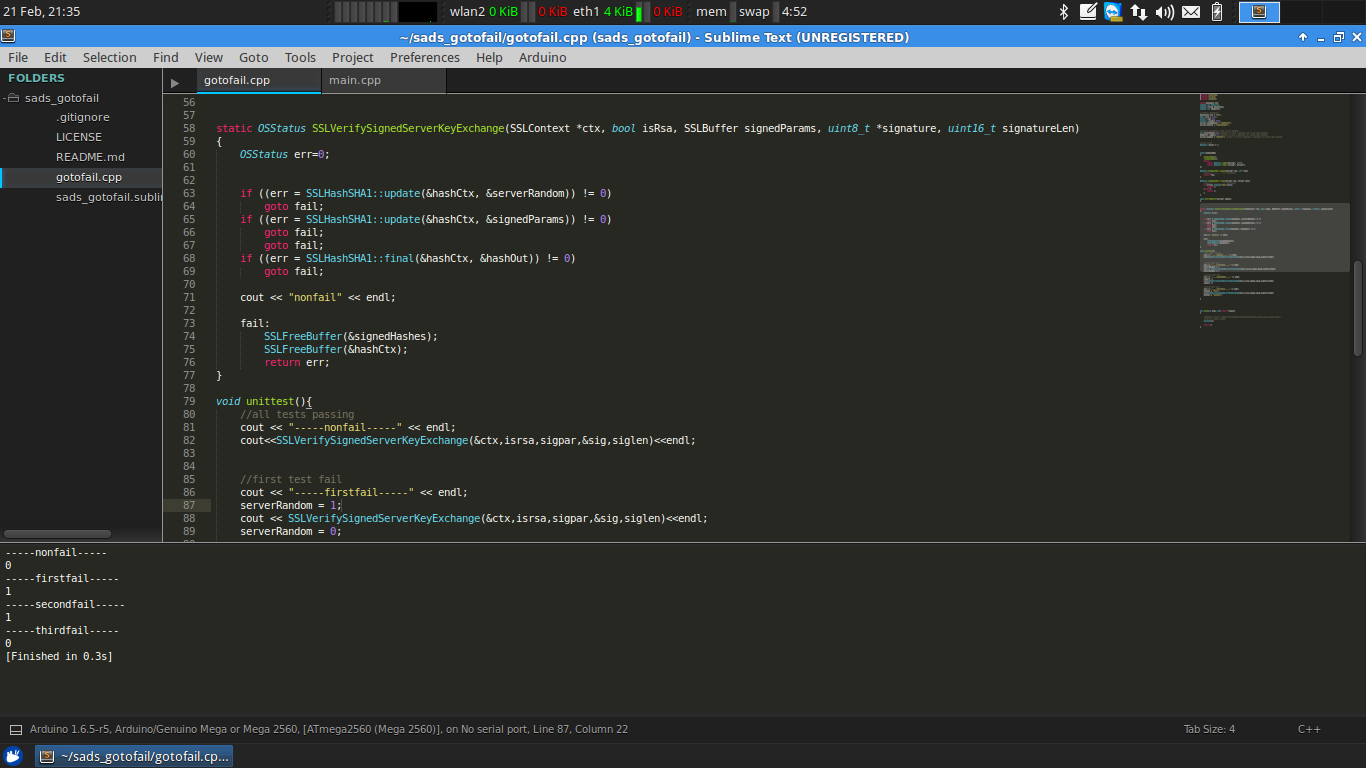
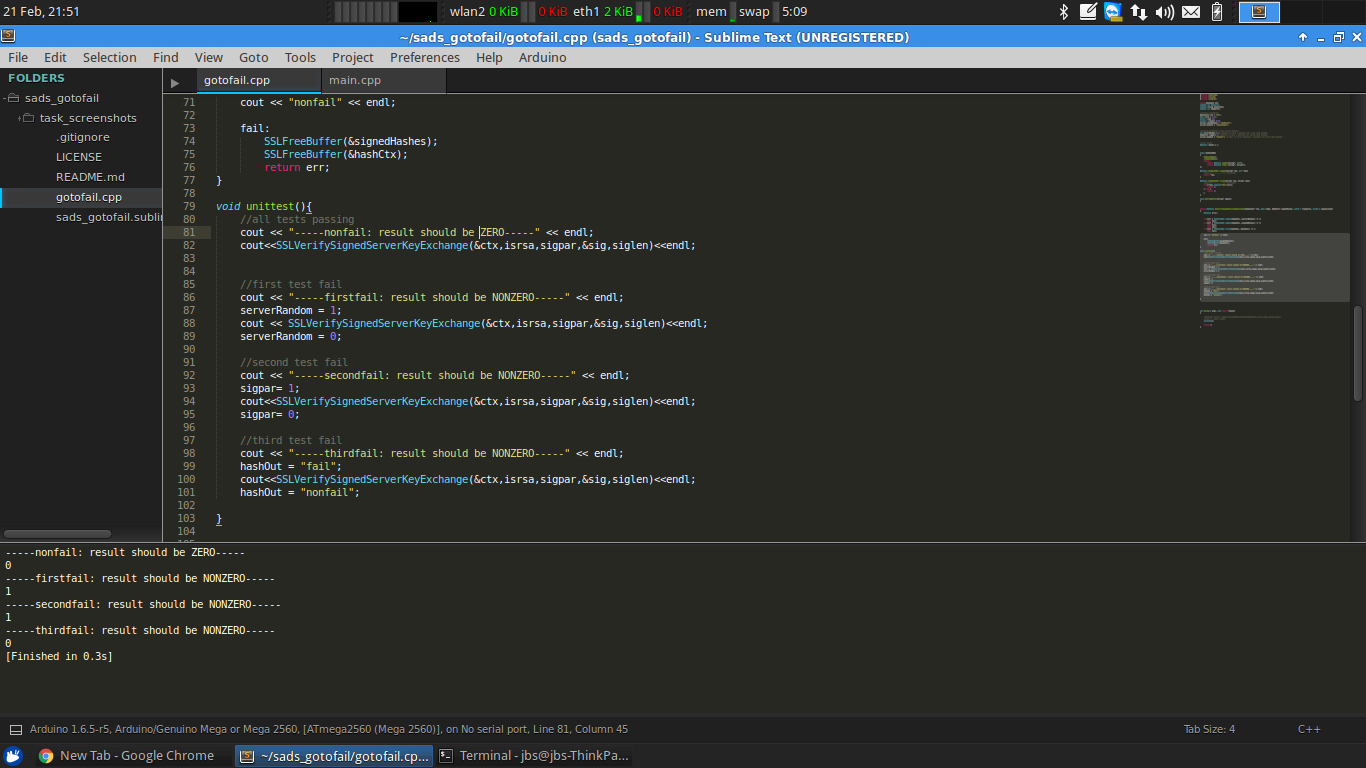
made TASK 2 clearer

diff --git a/gotofail.cpp b/gotofail.cpp
@@ -78,24 +78,24 @@ static OSStatus SSLVerifySignedServerKeyExchange(SSLContext *ctx, bool isRsa, SS
 
 void unittest(){
 	//all tests passing
-	cout << "-----nonfail-----" << endl;
+	cout << "-----nonfail: result should be ZERO-----" << endl;
 	cout<<SSLVerifySignedServerKeyExchange(&ctx,isrsa,sigpar,&sig,siglen)<<endl;
 
 
 	//first test fail
-	cout << "-----firstfail-----" << endl;
+	cout << "-----firstfail: result should be NONZERO-----" << endl;
 	serverRandom = 1;
 	cout << SSLVerifySignedServerKeyExchange(&ctx,isrsa,sigpar,&sig,siglen)<<endl;
 	serverRandom = 0;
 
 	//second test fail
-	cout << "-----secondfail-----" << endl;
+	cout << "-----secondfail: result should be NONZERO-----" << endl;
 	sigpar= 1;
 	cout<<SSLVerifySignedServerKeyExchange(&ctx,isrsa,sigpar,&sig,siglen)<<endl;
 	sigpar= 0;
 
 	//third test fail
-	cout << "-----thirdfail-----" << endl;
+	cout << "-----thirdfail: result should be NONZERO-----" << endl;
 	hashOut = "fail";
 	cout<<SSLVerifySignedServerKeyExchange(&ctx,isrsa,sigpar,&sig,siglen)<<endl;
 	hashOut = "nonfail";
